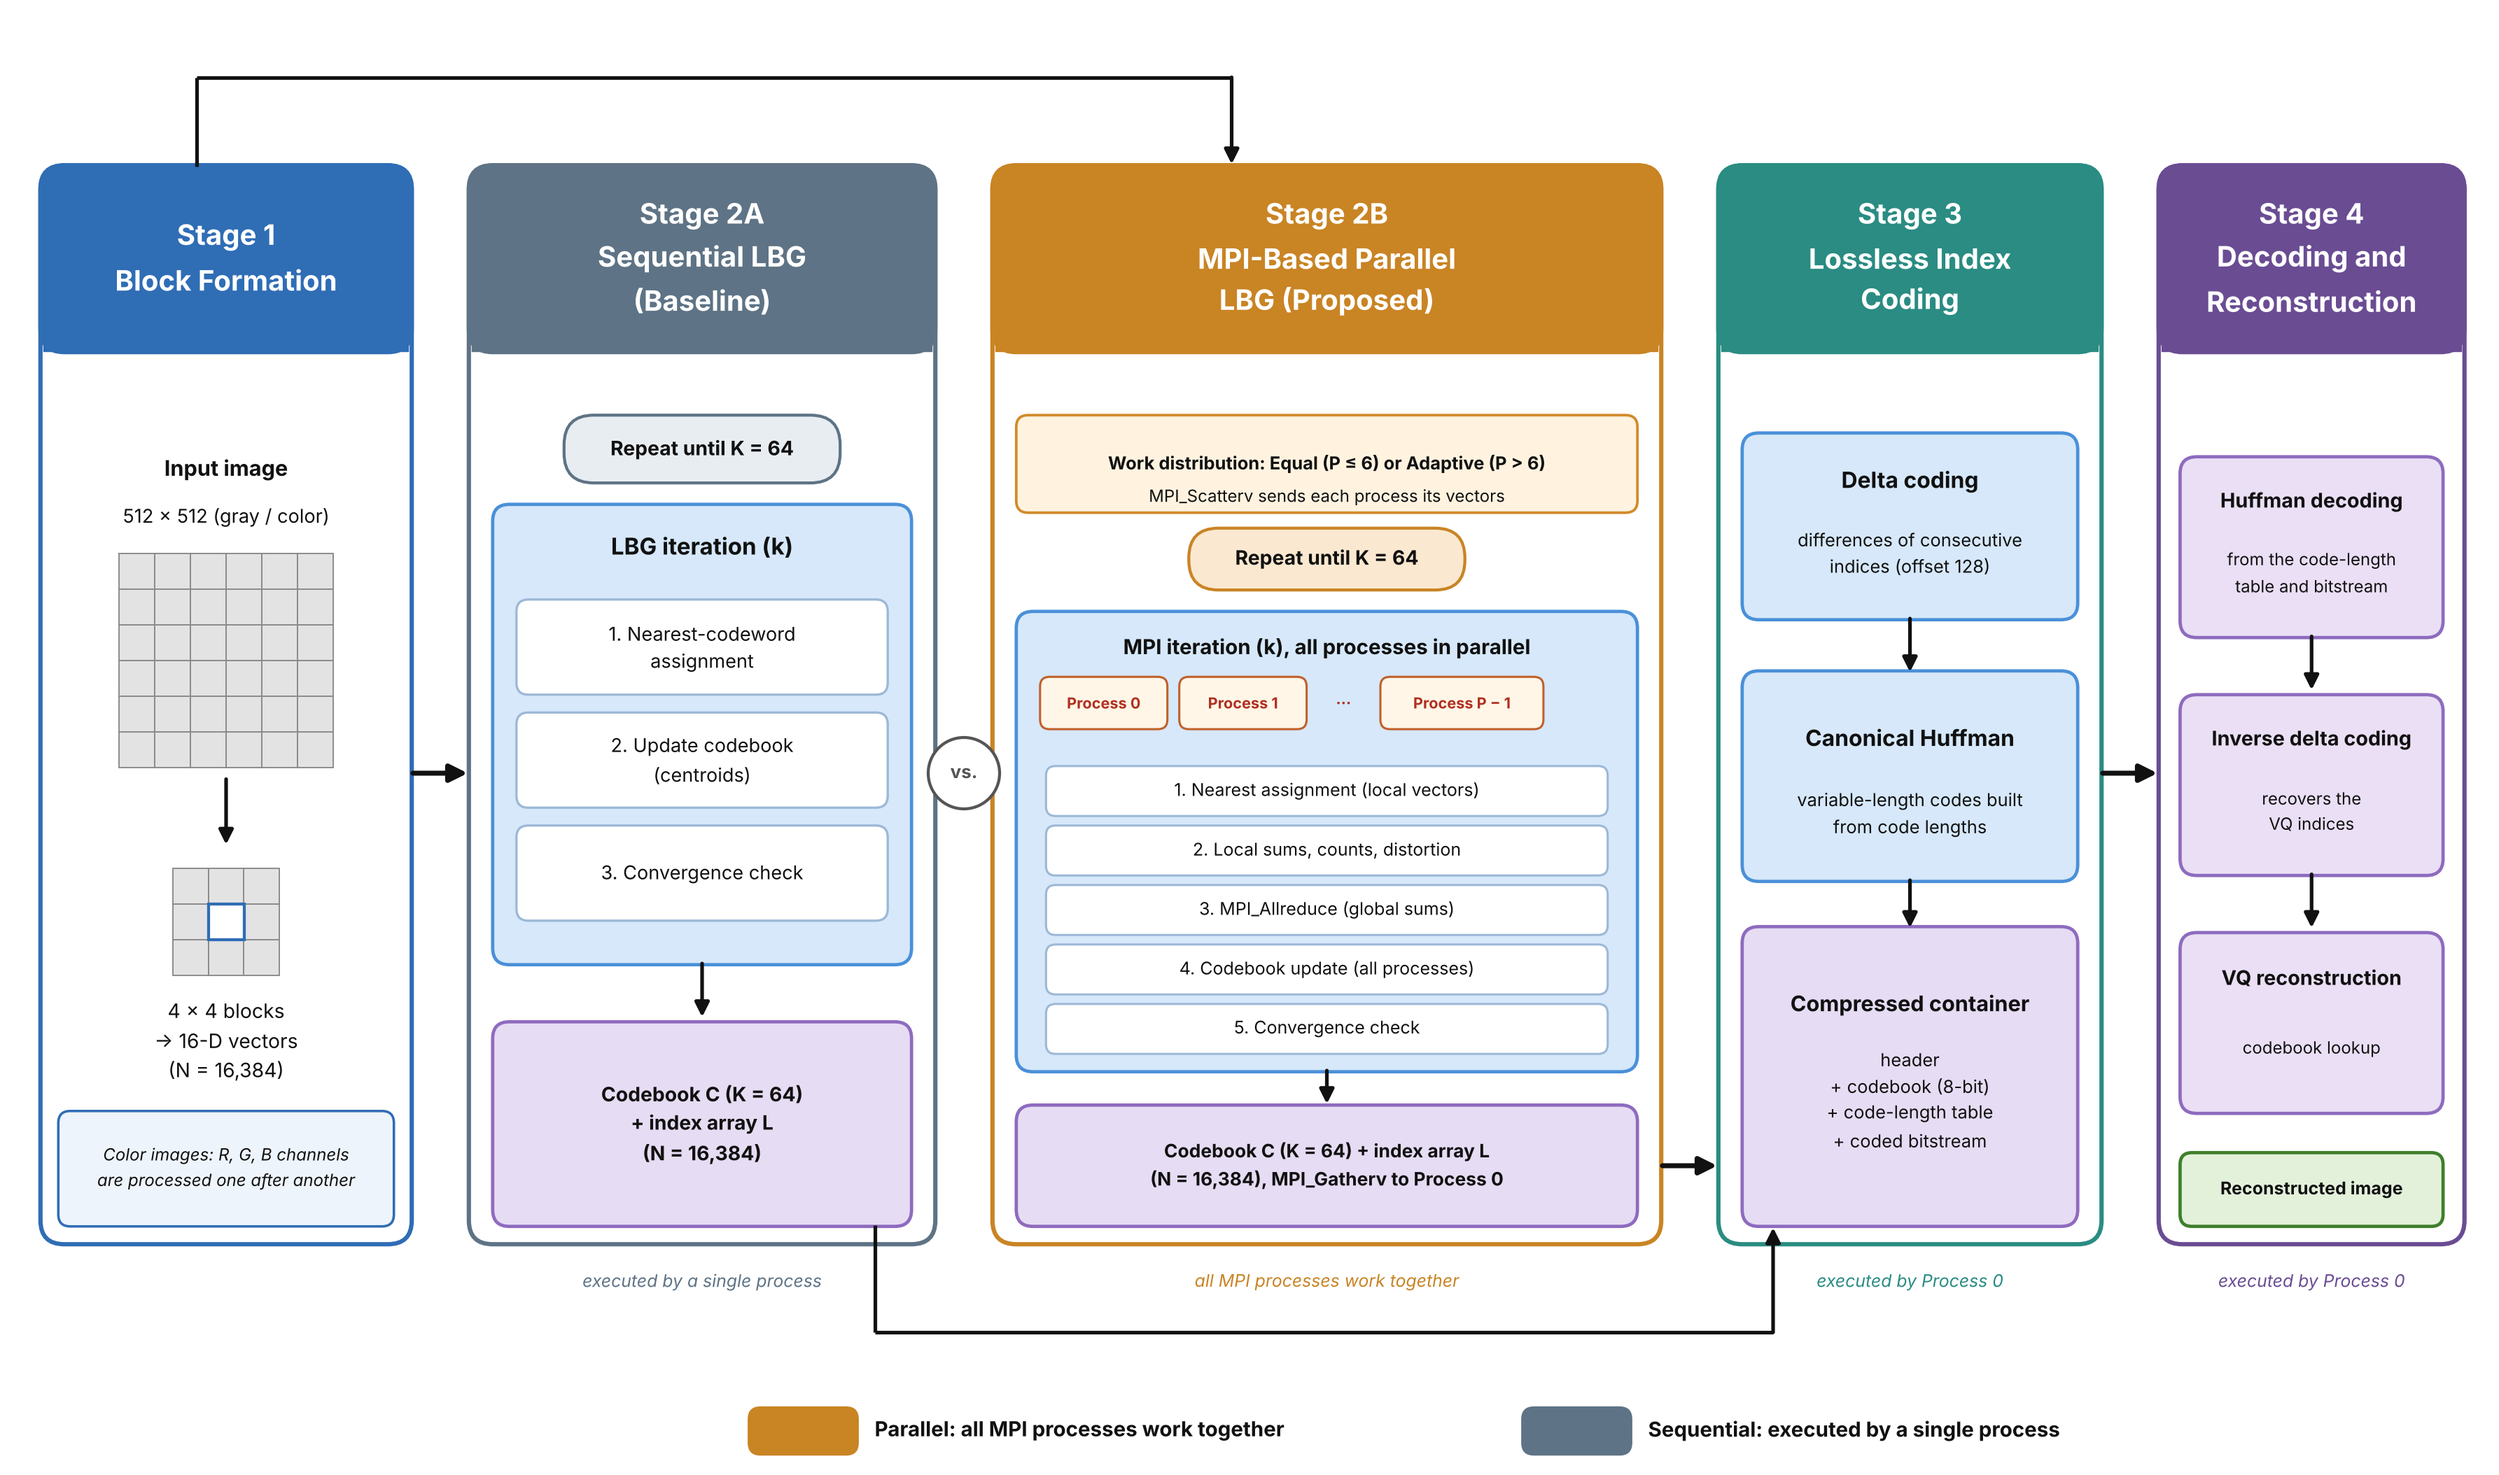
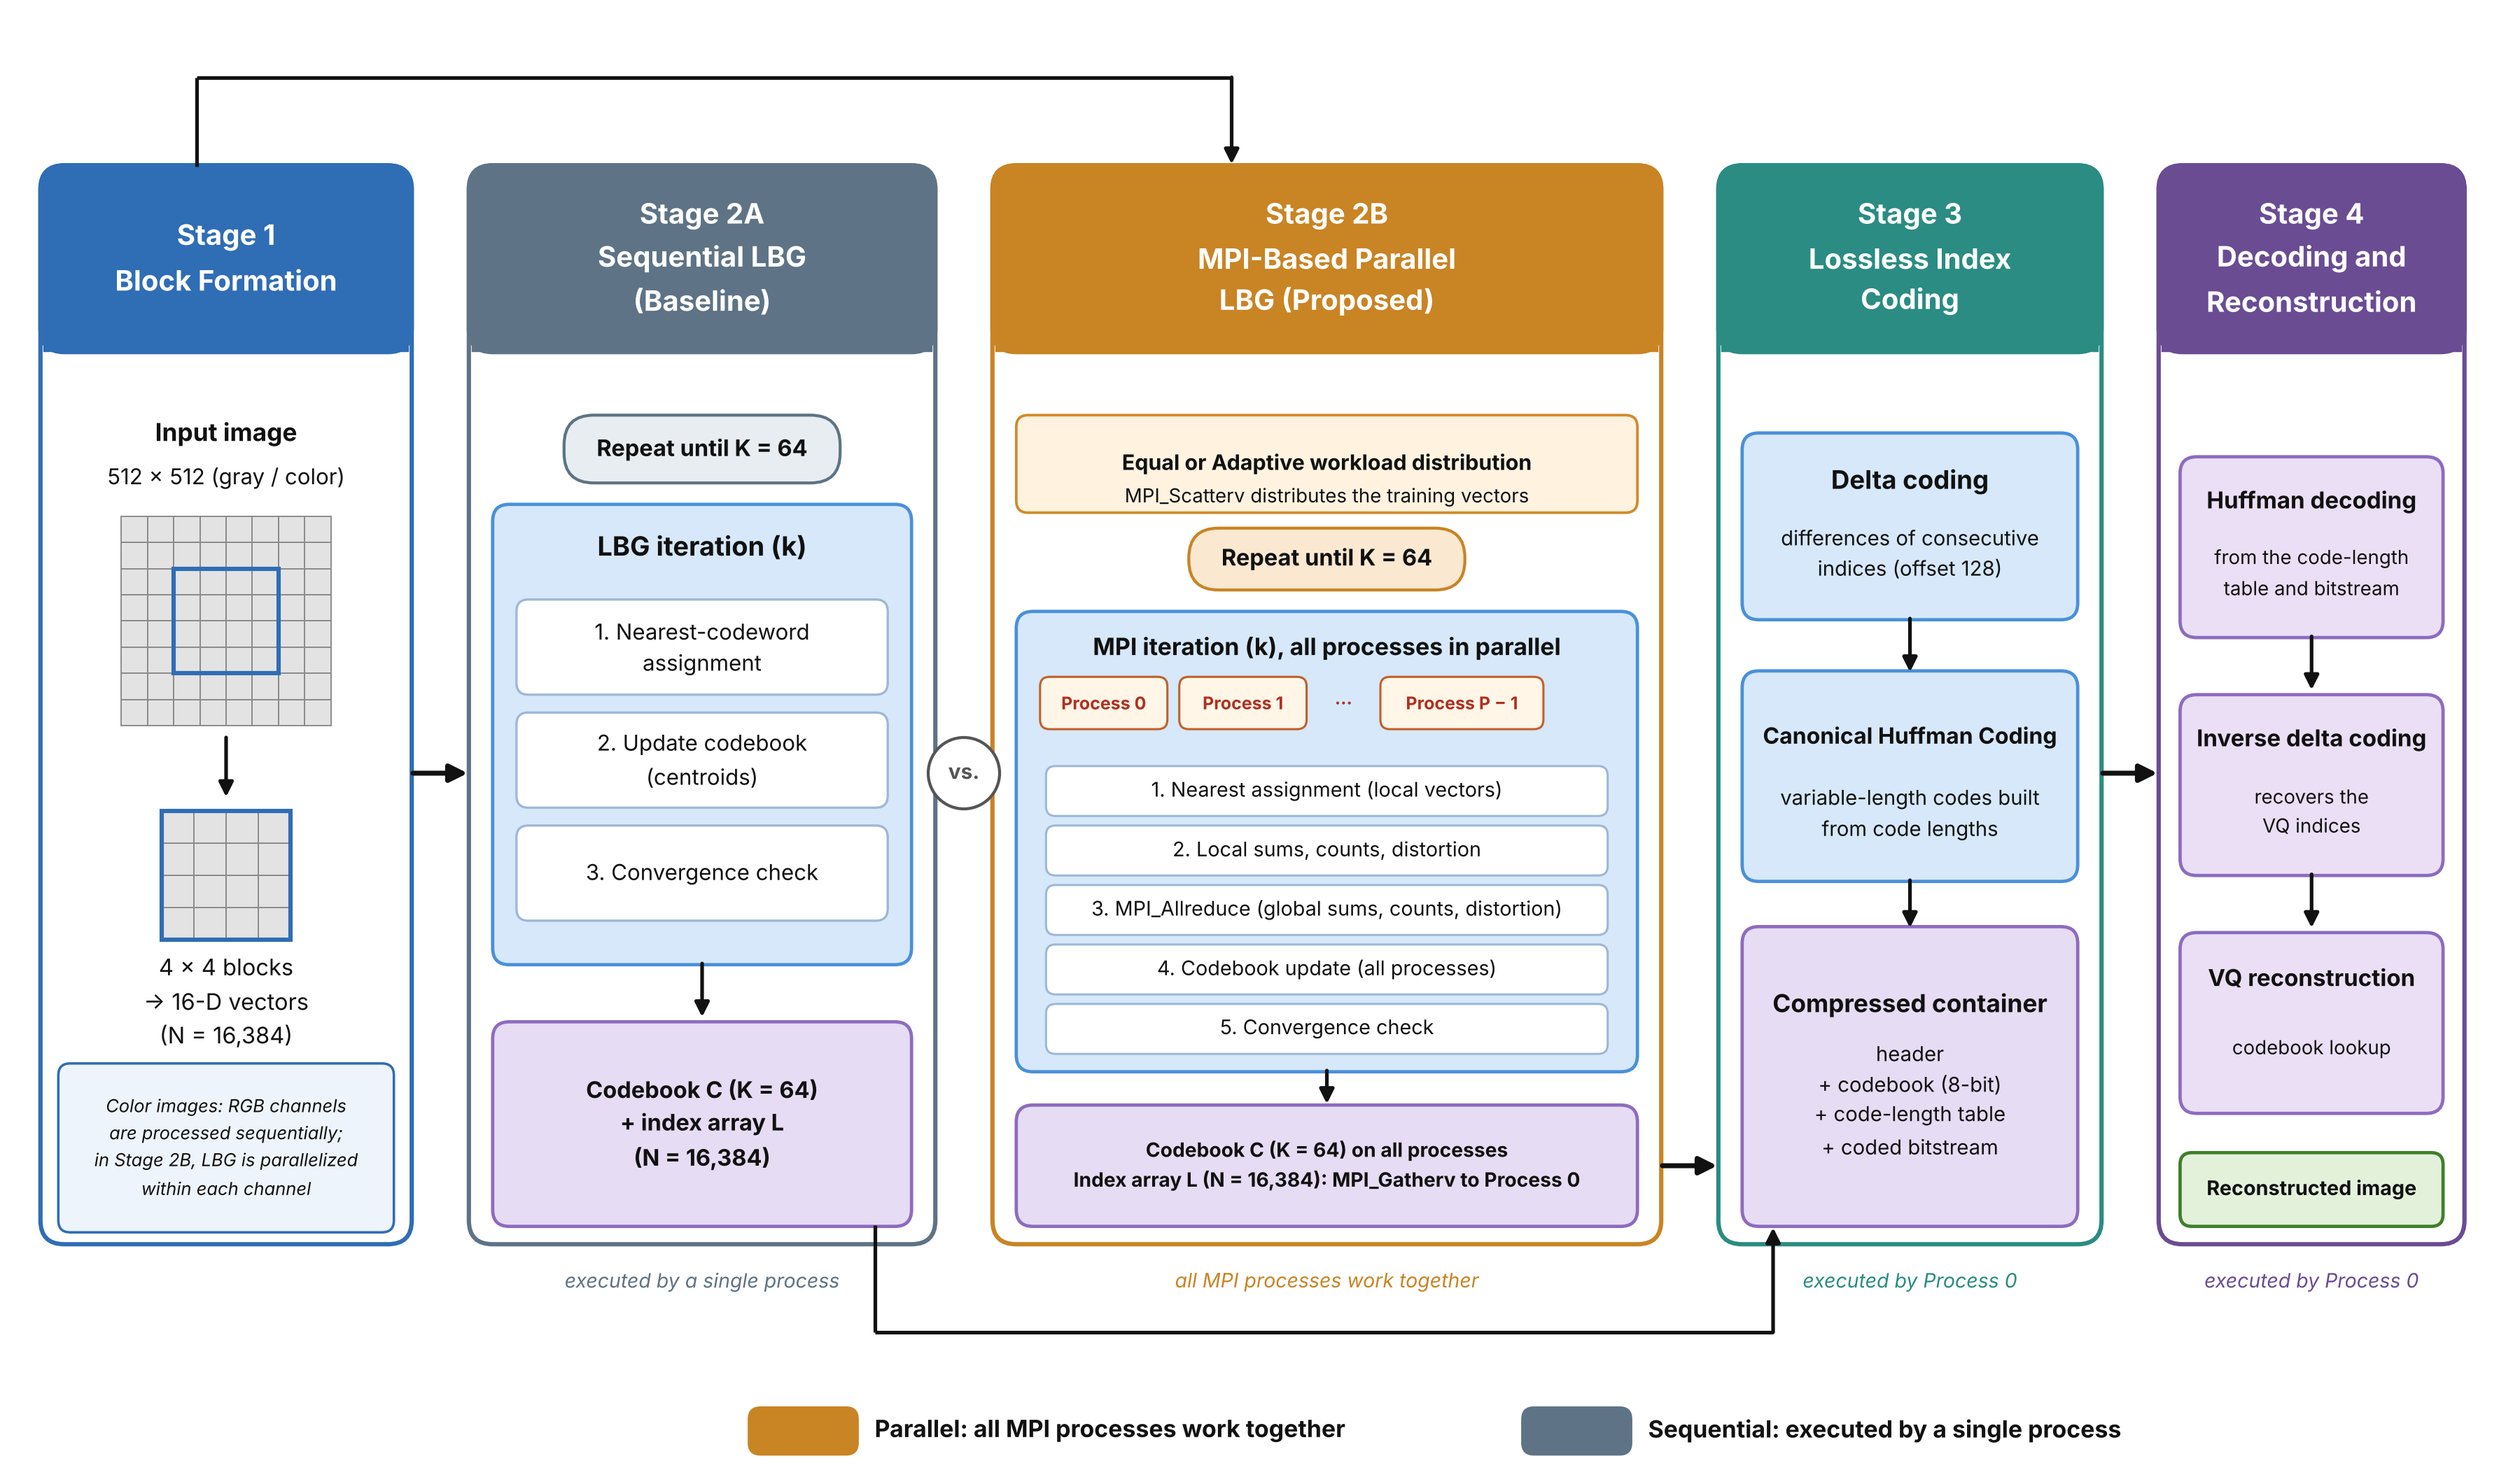
Framework figure: 4x4 block grid, larger text, wording fixes (Allreduce sums/counts/distortion, Equal or Adaptive, Canonical Huffman Coding, color note)
Claude-Session: https://claude.ai/code/session_01T6gEewJ8YaCdmnsfS34RJd

diff --git a/stages/make_fig_framework.py b/stages/make_fig_framework.py
@@ -13,7 +13,7 @@ C = dict(s1='#2F6DB5', s2a='#5E7385', s2b='#C98424', s3='#2A8C82', s4='#6A4C93')
 def rbox(x, y, w, h, fc, ec, lw=2.0, r=0.14, ls='-', z=1):
     ax.add_patch(FancyBboxPatch((x, y), w, h, boxstyle=f'round,pad=0.01,rounding_size={r}', fc=fc, ec=ec, lw=lw, ls=ls, zorder=z))
 def txt(x, y, s, fs=12, bold=False, color='#111111', ha='center', z=5, style='normal'):
-    ax.text(x, y, s, fontsize=fs, fontweight='bold' if bold else 'normal', color=color, ha=ha, va='center', zorder=z, linespacing=1.25, fontstyle=style)
+    ax.text(x, y, s, fontsize=(fs*1.15 if fs < 16 else fs), fontweight='bold' if bold else 'normal', color=color, ha=ha, va='center', zorder=z, linespacing=1.25, fontstyle=style)
 def arrow(x1, y1, x2, y2, lw=2.2, color='#111111', ms=18):
     ax.annotate('', xy=(x2, y2), xytext=(x1, y1), arrowprops=dict(arrowstyle='-|>', lw=lw, color=color, mutation_scale=ms, shrinkA=0, shrinkB=0), zorder=6)
 def line(xs, ys, lw=2.2, color='#111111'):
@@ -39,21 +39,22 @@ PURPLE = ('#E6DCF3', '#8E6BBF'); BLUE = ('#D6E8FA', '#4A90D9'); WHITE = ('#FFFFF
 
 # ---------------- Stage 1 ----------------
 x, w = cols['s1']; cx = x + w/2
-txt(cx, 8.45, 'Input image', fs=13, bold=True)
-txt(cx, 8.05, '512 × 512 (gray / color)', fs=11.5)
-gx, gy, gs = cx - 0.9, 5.95, 0.3
-for i in range(6):
-    for j in range(6):
+txt(cx, 8.75, 'Input image', fs=13, bold=True)
+txt(cx, 8.38, '512 × 512 (gray / color)', fs=11.5)
+gs = 0.22; gx, gy = cx - 4*gs, 6.3
+for i in range(8):
+    for j in range(8):
         ax.add_patch(Rectangle((gx + i*gs, gy + j*gs), gs, gs, fc='#E3E3E3', ec='#8A8A8A', lw=0.8, zorder=3))
-arrow(cx, 5.85, cx, 5.3)
-bx, by, bs = cx - 0.45, 4.2, 0.3
-for i in range(3):
-    for j in range(3):
+ax.add_patch(Rectangle((gx + 2*gs, gy + 2*gs), 4*gs, 4*gs, fc='none', ec='#2F6DB5', lw=2.6, zorder=4))
+arrow(cx, 6.2, cx, 5.7)
+bs = 0.27; bx, by = cx - 2*bs, 4.5
+for i in range(4):
+    for j in range(4):
         ax.add_patch(Rectangle((bx + i*bs, by + j*bs), bs, bs, fc='#E3E3E3', ec='#8A8A8A', lw=0.8, zorder=3))
-ax.add_patch(Rectangle((bx + bs, by + bs), bs, bs, fc='white', ec='#2F6DB5', lw=1.8, zorder=4))
-txt(cx, 3.65, '4 × 4 blocks\n→ 16-D vectors\n(N = 16,384)', fs=12)
-rbox(x + 0.15, 2.1, w - 0.3, 0.95, '#EEF4FB', C['s1'], lw=1.5, r=0.1)
-txt(cx, 2.575, 'Color images: R, G, B channels\nare processed one after another', fs=10.2, style='italic')
+ax.add_patch(Rectangle((bx, by), 4*bs, 4*bs, fc='none', ec='#2F6DB5', lw=2.6, zorder=4))
+txt(cx, 3.98, '4 × 4 blocks\n→ 16-D vectors\n(N = 16,384)', fs=12)
+rbox(x + 0.15, 2.05, w - 0.3, 1.4, '#EEF4FB', C['s1'], lw=1.5, r=0.1)
+txt(cx, 2.75, 'Color images: RGB channels\nare processed sequentially;\nin Stage 2B, LBG is parallelized\nwithin each channel', fs=9.4, style='italic')
 
 # ---------------- Stage 2A ----------------
 x, w = cols['s2a']; cx = x + w/2
@@ -73,8 +74,8 @@ txt(cx, 1.62, 'executed by a single process', fs=10.5, style='italic', color=C['
 # ---------------- Stage 2B ----------------
 x, w = cols['s2b']; cx = x + w/2
 rbox(x + 0.2, 8.1, w - 0.4, 0.8, '#FFF3E0', ORANGE[1], lw=1.6, r=0.1)
-txt(cx, 8.5, 'Work distribution: Equal (P ≤ 6) or Adaptive (P > 6)', fs=10.8, bold=True)
-txt(cx, 8.22, 'MPI_Scatterv sends each process its vectors', fs=10.2)
+txt(cx, 8.5, 'Equal or Adaptive workload distribution', fs=11.2, bold=True)
+txt(cx, 8.22, 'MPI_Scatterv distributes the training vectors', fs=10.2)
 rbox(cx - 1.15, 7.45, 2.3, 0.5, '#FBE8D0', C['s2b'], lw=1.8, r=0.25)
 txt(cx, 7.7, 'Repeat until K = 64', fs=12, bold=True)
 rbox(x + 0.2, 3.4, w - 0.4, 3.85, BLUE[0], BLUE[1], lw=2.0)
@@ -86,14 +87,14 @@ for s, ww in zip(chips, cw):
         rbox(cxs, 6.28, ww, 0.42, '#FFF6E8', '#C0602B', lw=1.3, r=0.08)
     txt(cxs + ww/2, 6.49, s, fs=9.2, bold=True, color='#B03020')
     cxs += ww + 0.12
-items = ['1. Nearest assignment (local vectors)', '2. Local sums, counts, distortion', '3. MPI_Allreduce (global sums)', '4. Codebook update (all processes)', '5. Convergence check']
+items = ['1. Nearest assignment (local vectors)', '2. Local sums, counts, distortion', '3. MPI_Allreduce (global sums, counts, distortion)', '4. Codebook update (all processes)', '5. Convergence check']
 for i, s in enumerate(items):
     yy = 5.75 - i*0.5
     rbox(x + 0.45, yy - 0.2, w - 0.9, 0.4, WHITE[0], WHITE[1], lw=1.3, r=0.08)
     txt(cx, yy, s, fs=10.6)
 arrow(cx, 3.4, cx, 3.12)
 rbox(x + 0.2, 2.1, w - 0.4, 1.0, PURPLE[0], PURPLE[1], lw=2.0)
-txt(cx, 2.6, 'Codebook C (K = 64) + index array L\n(N = 16,384), MPI_Gatherv to Process 0', fs=11.2, bold=True)
+txt(cx, 2.6, 'Codebook C (K = 64) on all processes\nIndex array L (N = 16,384): MPI_Gatherv to Process 0', fs=10.4, bold=True)
 txt(cx, 1.62, 'all MPI processes work together', fs=10.5, style='italic', color=C['s2b'])
 
 # ---------------- Stage 3 ----------------
@@ -103,7 +104,7 @@ txt(cx, 8.35, 'Delta coding', fs=13.5, bold=True)
 txt(cx, 7.75, 'differences of consecutive\nindices (offset 128)', fs=10.8)
 arrow(cx, 7.2, cx, 6.75)
 rbox(x + 0.2, 5.0, w - 0.4, 1.75, BLUE[0], BLUE[1], lw=2.0)
-txt(cx, 6.2, 'Canonical Huffman', fs=13.5, bold=True)
+txt(cx, 6.2, 'Canonical Huffman Coding', fs=11.8, bold=True)
 txt(cx, 5.55, 'variable-length codes built\nfrom code lengths', fs=10.8)
 arrow(cx, 5.0, cx, 4.6)
 rbox(x + 0.2, 2.1, w - 0.4, 2.5, PURPLE[0], PURPLE[1], lw=2.0)
